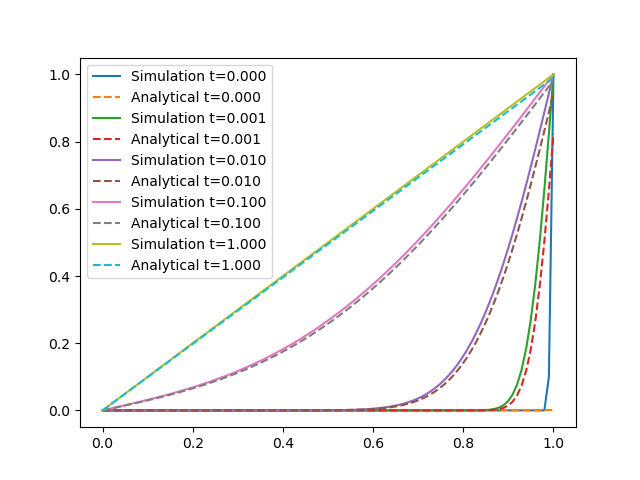
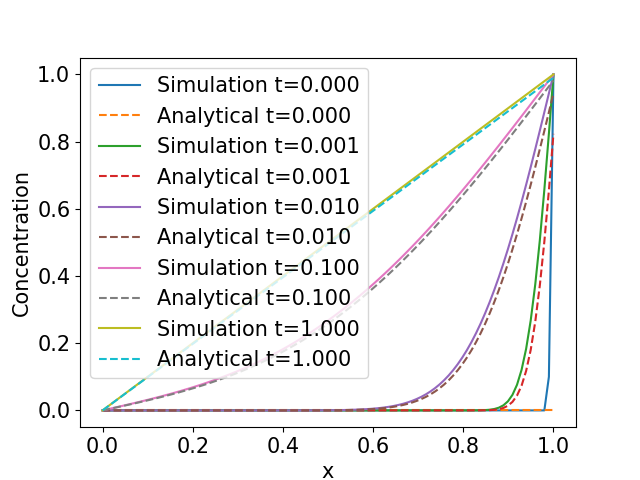
scicomp

diff --git a/time_independent_diff.py b/time_independent_diff.py
@@ -1,5 +1,6 @@
 import numpy as np
 import matplotlib.pyplot as plt
+plt.rcParams.update({'font.size': 15})
 
 def jacobi_iteration():
     N = 100
@@ -10,16 +11,24 @@ def jacobi_iteration():
 
     grid_list = [np.zeros((N, N)), grid.copy()]
     counter = 0
-    while max(abs(grid_list[-1] - grid_list[-2]).flatten()) > 1e-4:
+
+    delta = 1
+    delta_list = []
+
+    while delta > 1e-5:
         print(f"{max(abs(grid_list[-1] - grid_list[-2]).flatten()):.7f}", end='\r')
 
         grid[1:-1] = 0.25 * (np.roll(grid, 1, axis=0) + np.roll(grid, -1, axis=0) + np.roll(grid, 1, axis=1) + np.roll(grid, -1, axis=1))[1:-1]
         grid_list.append(grid.copy())
         counter += 1
+
+        delta = max(abs(grid_list[-1] - grid_list[-2]).flatten())
+        delta_list.append(delta)
+
     print()
     print(counter)
 
-    return grid_list[-1]
+    return delta_list
 
 def gauss_seidel():
     N = 100
@@ -29,7 +38,11 @@ def gauss_seidel():
 
     grid_list = [np.zeros((N, N)), grid.copy()]
     counter = 0
-    while max(abs(grid_list[-1] - grid_list[-2]).flatten()) > 1e-4:
+
+    delta = 1
+    delta_list = []
+
+    while delta > 1e-5:
         print(f"{max(abs(grid_list[-1] - grid_list[-2]).flatten()):.7f}", end='\r')
         new_grid = np.zeros((N, N))
         new_grid[-1] = 1
@@ -42,22 +55,27 @@ def gauss_seidel():
         grid = new_grid.copy()
         grid_list.append(grid.copy())
 
+        delta = max(abs(grid_list[-1] - grid_list[-2]).flatten())
+        delta_list.append(delta)
+
         counter += 1
     print()
     print(counter)
 
-    return grid_list[-1]
+    return delta_list
 
-def successive_over_relaxation(omega):
-    N = 100
-
+def successive_over_relaxation(omega, N=100):
     grid = np.zeros((N, N))
     grid[-1] = 1
 
     grid_list = [np.zeros((N, N)), grid.copy()]
     counter = 0
-    while max(abs(grid_list[-1] - grid_list[-2]).flatten()) > 1e-4:
-        print(f"{max(abs(grid_list[-1] - grid_list[-2]).flatten()):.7f}", end='\r')
+
+    delta = 1
+    delta_list = []
+
+    while delta > 1e-5 and delta < 1e5 and counter < 1e4:
+        # print(f"{max(abs(grid_list[-1] - grid_list[-2]).flatten()):.7f}", end='\r')
         new_grid = np.zeros((N, N))
         new_grid[-1] = 1
         for y in range(1, N-1):
@@ -69,11 +87,15 @@ def successive_over_relaxation(omega):
         grid = new_grid.copy()
         grid_list.append(grid.copy())
 
-        counter += 1
-    print()
-    print(counter)
+        delta = max(abs(grid_list[-1] - grid_list[-2]).flatten())
+        delta_list.append(delta)
 
-    return grid_list[-1]
+        counter += 1
+    # print()
+    # print(counter)
+    # print(delta)
+
+    return delta_list
 
 def sink_simulation(x1, x2, y1, y2):
     N = 100
@@ -84,7 +106,7 @@ def sink_simulation(x1, x2, y1, y2):
 
     grid_list = [np.zeros((N, N)), grid.copy()]
     counter = 0
-    while max(abs(grid_list[-1] - grid_list[-2]).flatten()) > 1e-4:
+    while max(abs(grid_list[-1] - grid_list[-2]).flatten()) > 1e-4 and counter < 10000:
         grid[y1:y2, x1:x2] = 0
         print(f"{max(abs(grid_list[-1] - grid_list[-2]).flatten()):.7f}", end='\r')
 
@@ -97,9 +119,33 @@ def sink_simulation(x1, x2, y1, y2):
     return grid_list[-1]
 
 
-# jacobi_iteration()
-# gauss_seidel()
-# successive_over_relaxation(1.7)
+# jacobi_list = jacobi_iteration()
+# gauss_list = gauss_seidel()
+# plt.plot(jacobi_list, label='Jacobi')
+# plt.plot(gauss_list, label='Gauss-Seidel')
+# for omega in np.arange(1.4, 2, 0.1):
+#     print(omega)
+#     sor_list = successive_over_relaxation(omega)
+#     plt.plot(sor_list, label=f'SOR {omega:.1f}')
 
-plt.imshow(sink_simulation(40, 60, 10, 20), origin='lower')
-plt.show()
+
+# plt.legend()
+# plt.yscale('log')
+# plt.xlabel("Iteration")
+# plt.ylabel("Delta")
+# plt.tight_layout()
+# plt.savefig("jacobi_gauss_sor.png")
+
+
+min_iterations = 1e5
+for N in [25, 50, 75, 100]:
+    print(f"N = {N}")
+    for omega in np.arange(1.6, 2, 0.01):
+        print(f"omega = {omega}", end='\r')
+        delta_list = successive_over_relaxation(omega, N)
+        iterations = len(delta_list)
+        if iterations < min_iterations and delta_list[-1] < 1:
+            min_iterations = iterations
+            min_omega = omega
+
+    print(f"min_omega = {min_omega}, min_iterations = {min_iterations}")

diff --git a/diffusion.py b/diffusion.py
@@ -3,7 +3,6 @@ import matplotlib.pyplot as plt
 from scipy.special import erfc
 import pickle
 
-
 def simulation(N, t_end, D, delta_t, run_simulation=True):
     if not run_simulation:
         with open("1.2.pkl", 'rb') as fp:
@@ -43,32 +42,27 @@ def analytical(D, t, N):
 
     return line
 
-def plot(grid_list, analytical_list, t, N, animation_frames, delta_t):
-    plt.plot(np.linspace(0, 1, N), grid_list[int(delta_t*t/animation_frames)][:,0], label="Simulation")
-    plt.plot(np.linspace(0, 1, N), analytical_list, label="Analytical")
-    plt.legend()
-    plt.savefig(f"1.2_{t*delta_t:.3f}.png")
-    plt.clf()
 
 delta_t = 0.00001
 animation_frames = 100
 
 grid_list = simulation(100, 1, 1, delta_t, run_simulation=False)
 
-for t in [1e-20, 0.001, 0.01, 0.1, 1]:
-    analytical_list = analytical(1, t, 100)
-    plt.plot(np.linspace(0, 1, 100), grid_list[int(t/(animation_frames*delta_t))+1][:,0], label=f"Simulation t={t:.3f}")
-    plt.plot(np.linspace(0, 1, 100), analytical_list, label=f"Analytical t={t:.3f}", linestyle='--')
-plt.legend()
-plt.savefig("experimental_analytical.png")
-plt.clf()
+# for t in [1e-20, 0.001, 0.01, 0.1, 1]:
+#     analytical_list = analytical(1, t, 100)
+#     plt.plot(np.linspace(0, 1, 100), grid_list[int(t/(animation_frames*delta_t))+1][:,0], label=f"Simulation t={t:.3f}")
+#     plt.plot(np.linspace(0, 1, 100), analytical_list, label=f"Analytical t={t:.3f}", linestyle='--')
+# plt.legend()
+# plt.xlabel("x")
+# plt.ylabel("Concentration")
+# plt.savefig("experimental_analytical.png")
+# plt.clf()
 
 i = 1
 print(len(grid_list))
 
-# while np.sum(abs(grid_list[i] - grid_list[i-1])) > 1e-6:
-#     plt.imshow(grid_list[i], origin='lower')
-#     plt.draw()
-#     plt.pause(0.001)
-#     plt.clf()
-#     i += 1
+for t in [0, 0.001, 0.01, 0.1, 1]:
+    plt.imshow(grid_list[int(t/(animation_frames*delta_t))], origin='lower')
+    plt.xlabel("x")
+    plt.ylabel("y")
+    plt.savefig(f"animation_{t}.png")
